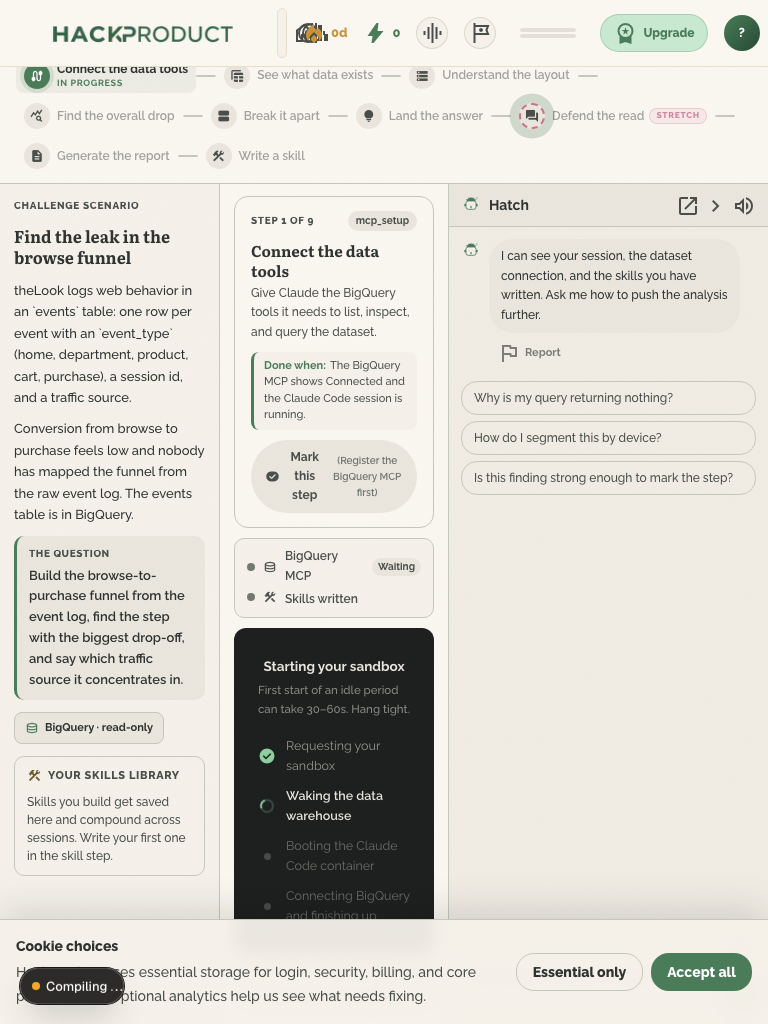
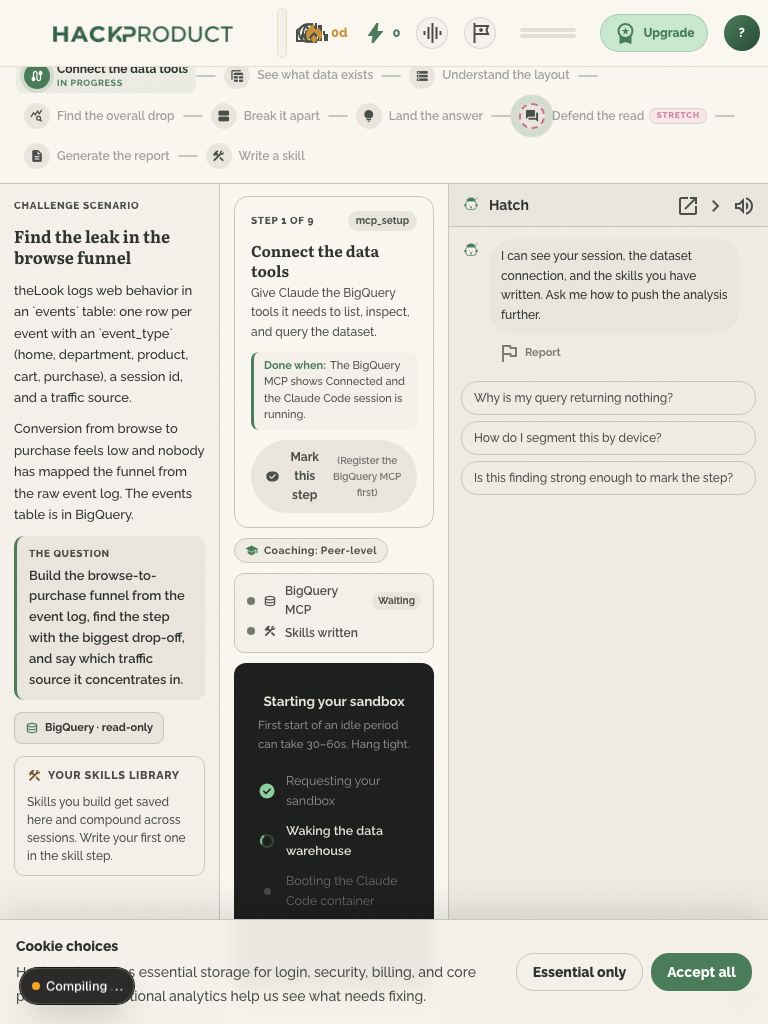
feat(adaptive-ui): F2+F3 — mirror adaptation narration + coaching register chip
The Session Mirror gains a 'How this session adapted' card narrating the
register, movements, and injected steps from the same adaptive log the
grader reads; the workspace shows a subtle register chip (Hands-on /
Balanced / Peer-level, product language only, tooltip explains behavior).
Shared labels live in src/lib/adaptive/registerLabel.ts. Visual pass
re-captured at 375/768/1440 with a chip assertion (real session,
finalized).

Changed region(s): [[0.2812, 0.5312, 0.5625, 0.9062], [0.1562, 0.9375, 0.1875, 1.0]]

diff --git a/src/components/v2/mediums/AnalyticsSessionMirror.tsx b/src/components/v2/mediums/AnalyticsSessionMirror.tsx
@@ -7,6 +7,8 @@ import { ReportCharts } from '@/components/analytics/ReportCharts'
 import { AnalystDimensionChart } from '@/components/analytics/AnalystDimensionChart'
 import type { AnalystDimensionView } from '@/lib/coding-grading/analyst-rubric'
 import type { MarkedFinding } from './types'
+import { REGISTER_LABELS, type AdaptiveSummary } from '@/lib/adaptive/registerLabel'
+import type { GuidanceLevel } from '@/lib/adaptive/guidance'
 
 interface AnalyticsSessionMirrorProps {
   markedFindings: MarkedFinding[]
@@ -21,6 +23,8 @@ interface AnalyticsSessionMirrorProps {
   reportDownloadUrl?: string | null
   /** A shareable URL for the report/score card, if generated. */
   shareUrl?: string | null
+  /** How the session adapted (guidance register, injected steps, movements). */
+  adaptive?: AdaptiveSummary | null
   onDashboard: () => void
   onRunAnother?: () => void
 }
@@ -34,6 +38,7 @@ export function AnalyticsSessionMirror({
   reportPath = null,
   reportDownloadUrl = null,
   shareUrl = null,
+  adaptive = null,
   onDashboard,
   onRunAnother,
 }: AnalyticsSessionMirrorProps) {
@@ -151,6 +156,46 @@ export function AnalyticsSessionMirror({
         {dimensions && dimensions.length > 0 && (
           <div ref={el => { cardRefs.current[0] = el }}>
             <AnalystDimensionChart dimensions={dimensions} variant="mirror" />
+          </div>
+        )}
+
+        {/* How the session adapted — honest narration of the register and any
+            arc changes the engine made, from the same log the grader reads. */}
+        {adaptive && (adaptive.injected.length > 0 || adaptive.adjustments.length > 0 || adaptive.guidance !== 'guided') && (
+          <div
+            ref={el => { cardRefs.current[5] = el }}
+            style={{
+              background: 'var(--color-surface)',
+              border: '1px solid var(--color-outline-variant)',
+              borderRadius: 14,
+              padding: '14px',
+              display: 'flex', flexDirection: 'column', gap: 8,
+            }}
+          >
+            <div style={{
+              fontSize: 11, fontWeight: 800, textTransform: 'uppercase', letterSpacing: '0.07em',
+              color: 'var(--color-on-surface-variant)',
+            }}>
+              How this session adapted
+            </div>
+            <div style={{ fontSize: 12.5, lineHeight: 1.6, color: 'var(--color-on-surface)', display: 'flex', flexDirection: 'column', gap: 4 }}>
+              <span>
+                Coaching ran at the {REGISTER_LABELS[adaptive.guidance].toLowerCase()} register
+                {adaptive.adjustments.length === 0 ? ' the whole way.' : '.'}
+              </span>
+              {adaptive.adjustments.map((a, i) => (
+                <span key={`adj-${i}`}>
+                  Hatch moved from {REGISTER_LABELS[a.from as GuidanceLevel]?.toLowerCase() ?? a.from} to {REGISTER_LABELS[a.to as GuidanceLevel]?.toLowerCase() ?? a.to} after {a.trigger}.
+                </span>
+              ))}
+              {adaptive.injected.map((inj, i) => (
+                <span key={`inj-${i}`}>
+                  {inj.kind === 'scaffold_explainer'
+                    ? 'A regroup step was added when the session stalled, then you worked back to the blocked step.'
+                    : 'A stretch step was added because you were moving fast and clean.'}
+                </span>
+              ))}
+            </div>
           </div>
         )}
 

diff --git a/src/components/v2/mediums/ClaudeCodeAnalyticsMedium.tsx b/src/components/v2/mediums/ClaudeCodeAnalyticsMedium.tsx
@@ -22,6 +22,7 @@ import {
   INITIAL_MACHINE,
   type GuidanceMachineState,
 } from '@/lib/adaptive/branching'
+import { REGISTER_LABELS, REGISTER_TOOLTIPS } from '@/lib/adaptive/registerLabel'
 import { toDimensionViews, type AnalystDimensionView } from '@/lib/coding-grading/analyst-rubric'
 import type {
   MediumProps,
@@ -722,6 +723,11 @@ export function ClaudeCodeAnalyticsMedium({ challenge, attemptId, scenario }: Me
         reportPath={reportPath}
         reportDownloadUrl={sessionId && reportPath ? `/api/claude-code/session/report?session=${encodeURIComponent(sessionId)}` : null}
         shareUrl={shareUrl}
+        adaptive={{
+          guidance,
+          injected: adaptiveLogRef.current.injected,
+          adjustments: adaptiveLogRef.current.adjustments,
+        }}
         onDashboard={() => { window.location.href = '/dashboard' }}
         onRunAnother={() => { window.location.reload() }}
       />
@@ -951,6 +957,31 @@ export function ClaudeCodeAnalyticsMedium({ challenge, attemptId, scenario }: Me
                 onMark={handleMark}
               />
             )}
+
+            {/* Coaching register — how Hatch is coaching this session (F3).
+                Product language only; the internal level never surfaces. */}
+            <div
+              title={REGISTER_TOOLTIPS[guidance]}
+              style={{
+                display: 'inline-flex', alignItems: 'center', gap: 6,
+                alignSelf: 'flex-start',
+                background: 'var(--color-surface-container)',
+                border: '1px solid var(--color-outline-variant)',
+                borderRadius: 999,
+                padding: '3px 10px',
+                cursor: 'default',
+              }}
+            >
+              <span
+                className="material-symbols-outlined"
+                style={{ fontSize: 13, color: 'var(--color-primary)', fontVariationSettings: "'FILL' 1, 'wght' 500" }}
+              >
+                school
+              </span>
+              <span style={{ fontSize: 10.5, fontWeight: 700, letterSpacing: '0.04em', color: 'var(--color-on-surface-variant)', fontFamily: 'var(--font-label)' }}>
+                Coaching: {REGISTER_LABELS[guidance]}
+              </span>
+            </div>
 
             {/* Connection strip */}
             <AnalyticsConnectionStrip

diff --git a/src/lib/adaptive/registerLabel.ts b/src/lib/adaptive/registerLabel.ts
@@ -1,0 +1,21 @@
+// Product-facing names for the coaching register. The internal enum never
+// reaches the user (Hatch opacity); these are the words the product says.
+import type { GuidanceLevel } from '@/lib/adaptive/guidance'
+
+export const REGISTER_LABELS: Record<GuidanceLevel, string> = {
+  scaffolded: 'Hands-on',
+  guided: 'Balanced',
+  open: 'Peer-level',
+}
+
+export const REGISTER_TOOLTIPS: Record<GuidanceLevel, string> = {
+  scaffolded: 'Hatch explains each move and names the next step while you build your footing.',
+  guided: 'Hatch coaches with questions first and steps in when you are stuck.',
+  open: 'Hatch reviews like a peer: terse, direct, and focused on rigor over basics.',
+}
+
+export interface AdaptiveSummary {
+  guidance: GuidanceLevel
+  injected: Array<{ id: string; kind: string; afterStepId: string | null; reason: string }>
+  adjustments: Array<{ from: string; to: string; trigger: string; atStepId: string | null }>
+}

diff --git a/e2e/adaptive-ui-shots.spec.ts b/e2e/adaptive-ui-shots.spec.ts
@@ -89,6 +89,8 @@ test.describe('adaptive UI screenshots', () => {
     // The stretch step carries the F1 badge — proof the adaptive arc rendered.
     await expect(page.getByText('Defend the read')).toBeVisible({ timeout: 30_000 })
     await expect(page.getByText('Stretch', { exact: true }).first()).toBeVisible()
+    // F3: the coaching register chip shows the open register in product language.
+    await expect(page.getByText('Coaching: Peer-level')).toBeVisible()
 
     for (const [w, h, name] of [[1440, 900, '1440'], [768, 1024, '768'], [375, 812, '375']] as const) {
       await page.setViewportSize({ width: w, height: h })

diff --git a/docs/notes/overnight-adaptive-2026-07-04.md b/docs/notes/overnight-adaptive-2026-07-04.md
@@ -44,6 +44,7 @@ Not fixed (noted): the 2 legacy `user_notes` rows keep NULL embeddings (trivial 
 
 ## Checkpoint
 
+- **Iteration 12** (F1, committed c85a954f): stepper Regroup/Stretch badges + dashed adaptive dots + insertion pop/glow animation + Hatch dock branch announcements. Visual pass verified at 3 viewports against a real session (screenshots in docs/notes/adaptive-ui/), suite green. Next: F2 (Session Mirror adaptation narration).
 - **Loop restarted** (2026-07-04 midday, user directive after review): new Phase F (visible adaptivity UI: F1 stepper affordances + branch announcement, F2 mirror narration, F3 coaching register chip) then Phase G (SUN-251..254, one commit per issue). Note: the founder account's learner_competencies were temporarily seeded to 88/25 for review (original values ~52/0) — restore or leave per user's call before merge. Dev server for review running on :3002 (stub disabled). Next: F1.
 
 - **Iteration 1** (night start): Worktree created from main, deps installed, .env.local copied. Phase A design doc written to `docs/superpowers/specs/2026-07-04-adaptive-workspaces-design.md`. Codex review dispatched (background). Next: incorporate Codex feedback, record verdict, commit Phase A, then start B0 (calibration measurement). No blockers.
